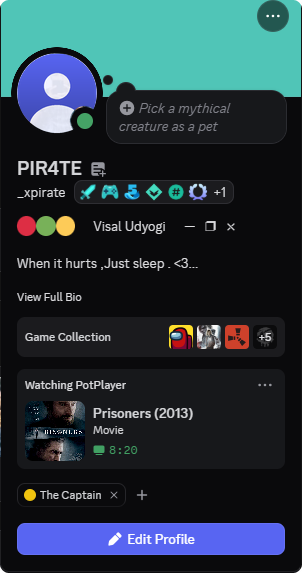
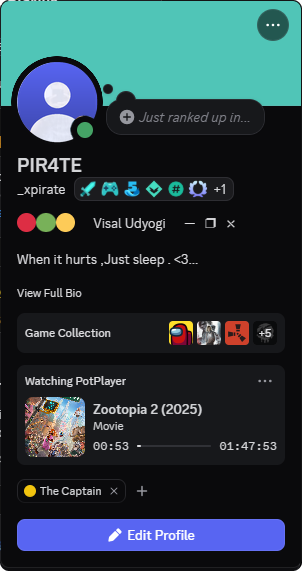
Update site preview image to show the progress bar
Claude-Session: https://claude.ai/code/session_01SkmoZyZJYYzByjMpDAKtnh

diff --git a/site/index.html b/site/index.html
@@ -53,7 +53,7 @@
       </div>
 
       <div class="hero-shot">
-        <img src="preview.png" alt="Media RPC showing a film as a Watching card on a Discord profile" width="302" height="573">
+        <img src="preview.png" alt="Media RPC showing a film as a Watching card on a Discord profile" width="302" height="571">
       </div>
     </section>
 
